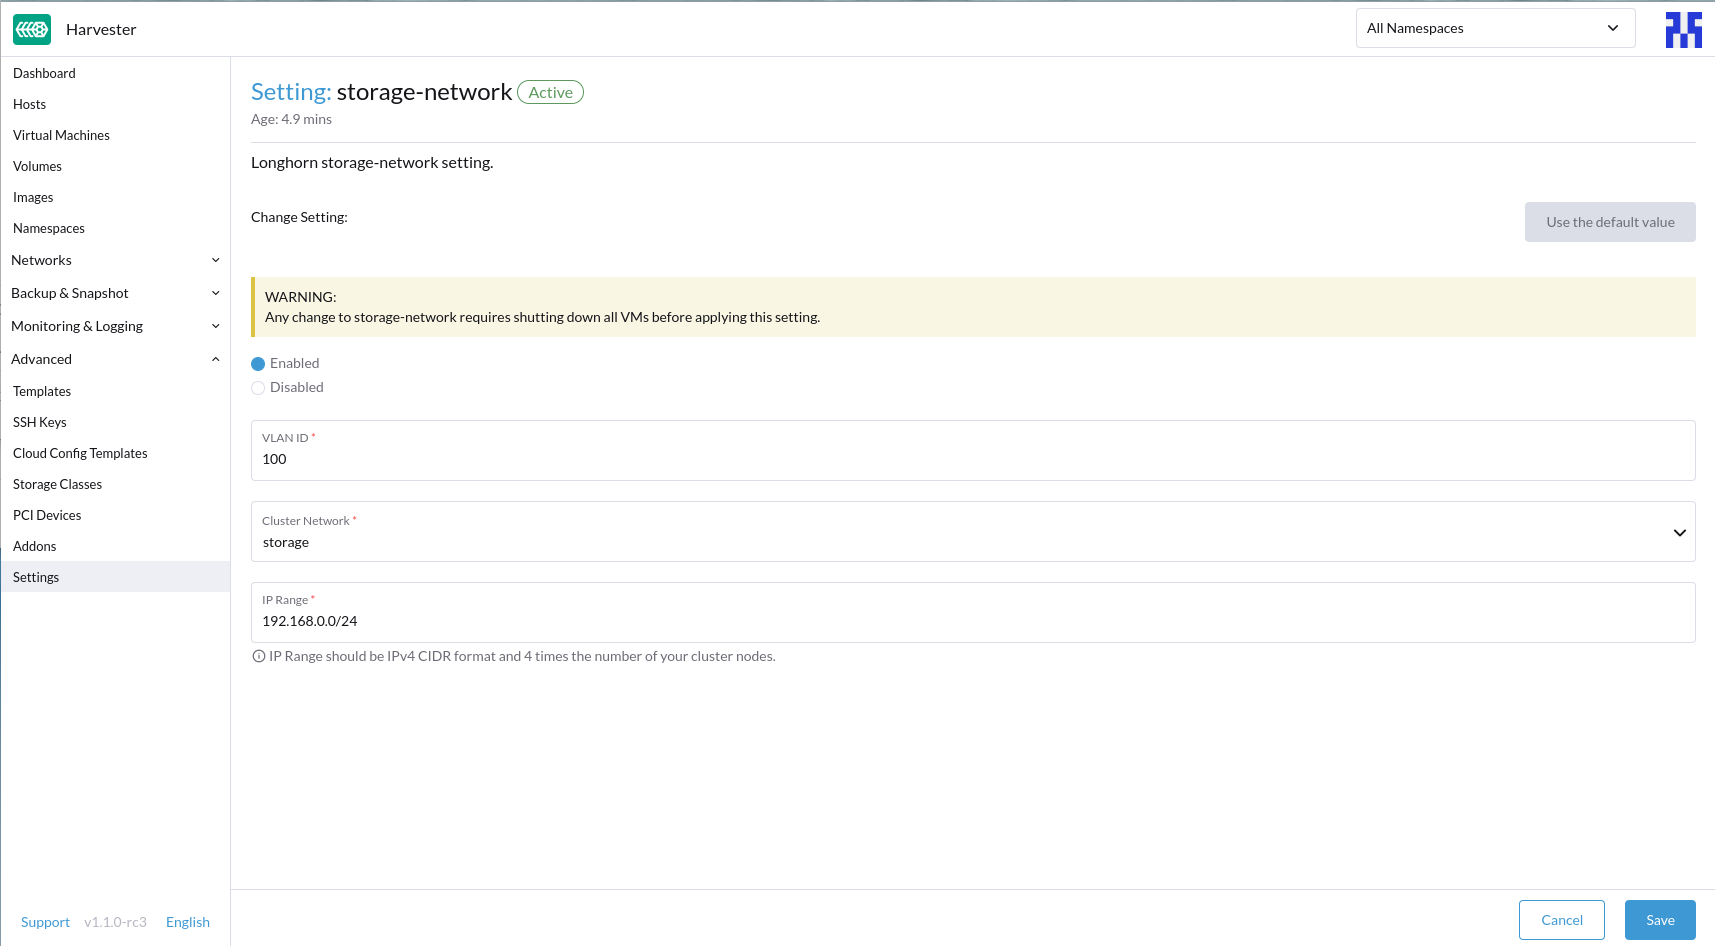
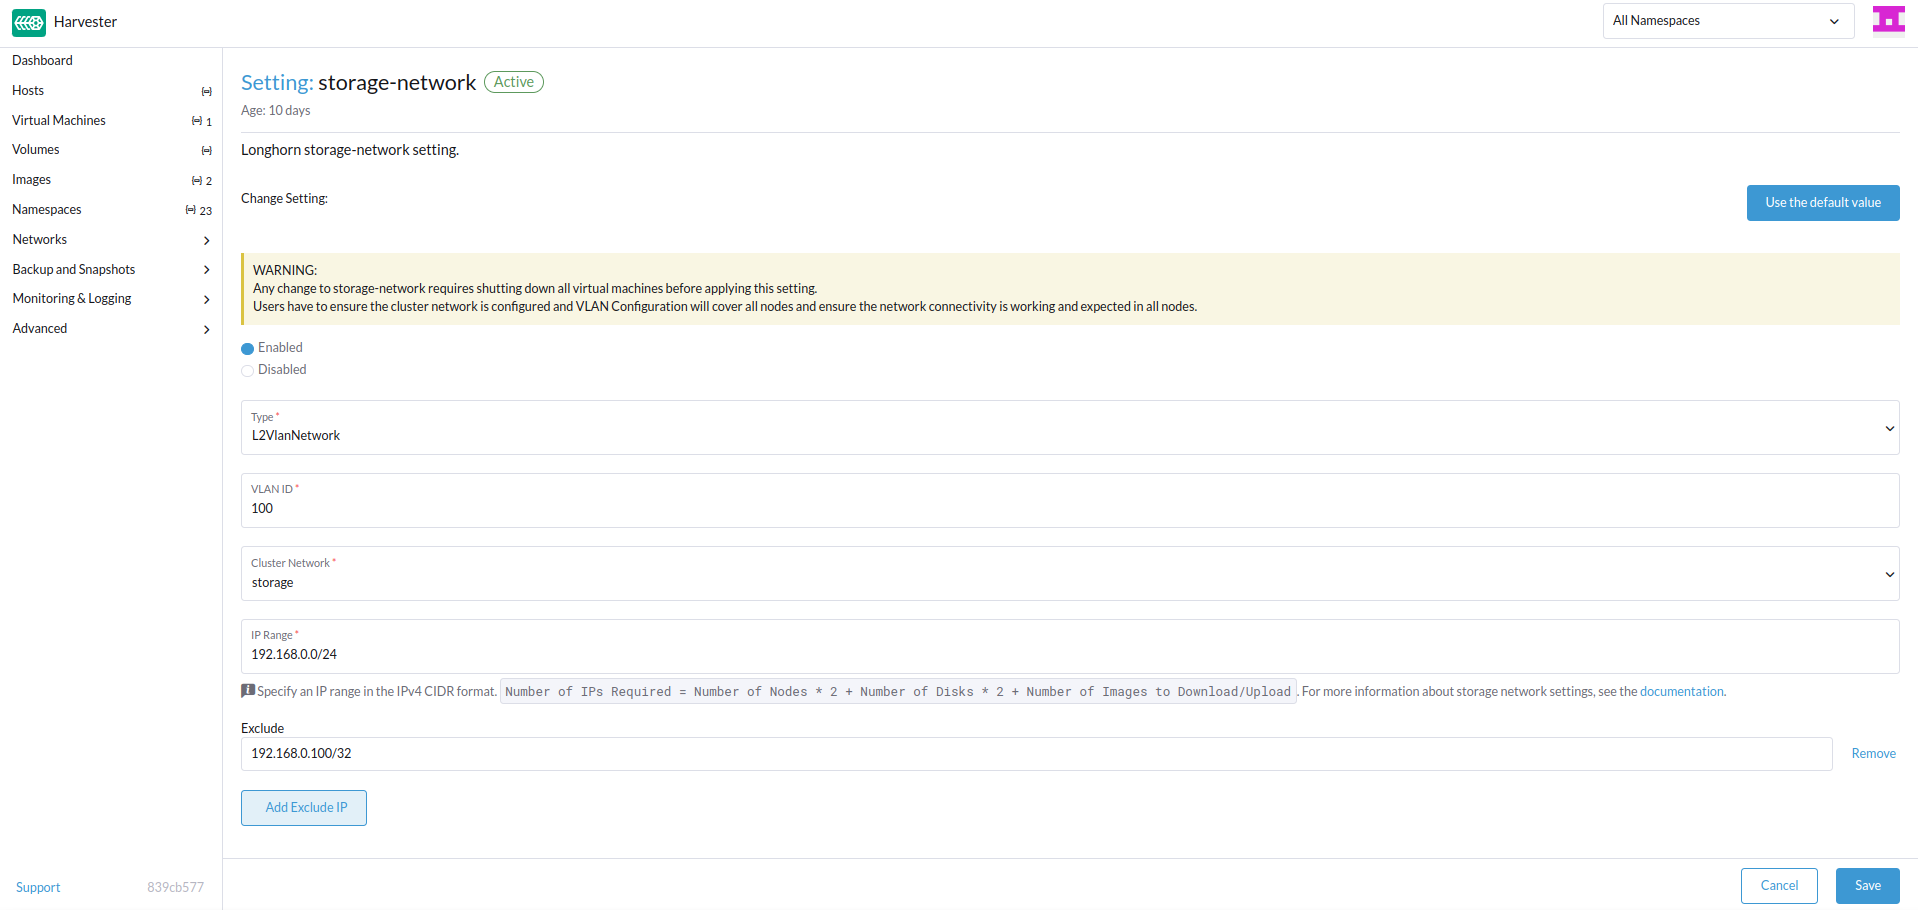
add how to exclue IPs from storage network

diff --git a/versioned_docs/version-v1.3/advanced/storagenetwork.md b/versioned_docs/version-v1.3/advanced/storagenetwork.md
@@ -58,6 +58,7 @@ kubectl apply -f https://raw.githubusercontent.com/harvester/harvester/v1.1.0/de
     - `backing-image-manager` pods: 1 IP per disk, similar to the instance manager pods. Two versions of these will coexist during an upgrade, and the old ones will be removed after the upgrade is completed.
     - The required number of IPs is calculated using a simple formula: `Required Number of IPs = (Number of Nodes * 2) + (Number of Disks * 2) + Number of Images to Download/Upload`
 	- Example: If a cluster has five nodes with two disks each, and ten images will be uploaded simultaneously, the IP range should be greater than or equal to `/26` (`(5 * 2) + (5 * 2) + 10 = 30`).
+  - Exclude IP addresses that Longhorn pods and the storage network must not use, such as addresses reserved for [Harvester CSI RWX support](../../../docs/rancher/csi-driver.md#rwx-volumes-support), the gateway, and other components.
 
 
 We will take the following configuration as an example to explain the details of the Storage Network
@@ -65,6 +66,7 @@ We will take the following configuration as an example to explain the details of
 - VLAN ID for Storage Network: `100`
 - Cluster Network: `storage`
 - IP range: `192.168.0.0/24`
+- Exclude Address: `192.168.0.1/32`
 
 ## Configuration Process
 
@@ -119,7 +121,10 @@ The value format is JSON string or empty string as shown in below.
 {
     "vlan": 100,
     "clusterNetwork": "storage",
-    "range": "192.168.0.0/24"
+    "range": "192.168.0.0/24",
+    "exclude":[
+      "192.168.0.100/32"
+    ]
 }
 ```
 
@@ -130,7 +135,7 @@ apiVersion: harvesterhci.io/v1beta1
 kind: Setting
 metadata:
   name: storage-network
-value: '{"vlan":100,"clusterNetwork":"storage","range":"192.168.0.0/24"}'
+value: '{"vlan":100,"clusterNetwork":"storage","range":"192.168.0.0/24", "exclude":["192.168.0.100/32"]}'
 ```
 
 :::caution

diff --git a/versioned_docs/version-v1.4/advanced/storagenetwork.md b/versioned_docs/version-v1.4/advanced/storagenetwork.md
@@ -59,6 +59,7 @@ kubectl apply -f https://raw.githubusercontent.com/harvester/harvester/v1.1.0/de
     - `backing-image-manager` pods: 1 IP per disk, similar to the instance manager pods. Two versions of these will coexist during an upgrade, and the old ones will be removed after the upgrade is completed.
     - The required number of IPs is calculated using a simple formula: `Required Number of IPs = (Number of Nodes * 2) + (Number of Disks * 2) + Number of Images to Download/Upload`
 	- Example: If a cluster has five nodes with two disks each, and ten images will be uploaded simultaneously, the IP range should be greater than or equal to `/26` (`(5 * 2) + (5 * 2) + 10 = 30`).
+  - Exclude IP addresses that Longhorn pods and the storage network must not use, such as addresses reserved for [Harvester CSI RWX support](../../../docs/rancher/csi-driver.md#rwx-volumes-support), the gateway, and other components.
 
 
 We will take the following configuration as an example to explain the details of the Storage Network
@@ -66,6 +67,7 @@ We will take the following configuration as an example to explain the details of
 - VLAN ID for Storage Network: `100`
 - Cluster Network: `storage`
 - IP range: `192.168.0.0/24`
+- Exclude Address: `192.168.0.1/32`
 
 ## Configuration Process
 
@@ -120,7 +122,10 @@ The value format is JSON string or empty string as shown in below.
 {
     "vlan": 100,
     "clusterNetwork": "storage",
-    "range": "192.168.0.0/24"
+    "range": "192.168.0.0/24",
+    "exclude":[
+      "192.168.0.100/32"
+    ]
 }
 ```
 
@@ -131,7 +136,7 @@ apiVersion: harvesterhci.io/v1beta1
 kind: Setting
 metadata:
   name: storage-network
-value: '{"vlan":100,"clusterNetwork":"storage","range":"192.168.0.0/24"}'
+value: '{"vlan":100,"clusterNetwork":"storage","range":"192.168.0.0/24", "exclude":["192.168.0.100/32"]}'
 ```
 
 :::caution

diff --git a/docs/advanced/storagenetwork.md b/docs/advanced/storagenetwork.md
@@ -59,6 +59,7 @@ kubectl apply -f https://raw.githubusercontent.com/harvester/harvester/v1.1.0/de
     - `backing-image-manager` pods: 1 IP per disk, similar to the instance manager pods. Two versions of these will coexist during an upgrade, and the old ones will be removed after the upgrade is completed.
     - The required number of IPs is calculated using a simple formula: `Required Number of IPs = (Number of Nodes * 2) + (Number of Disks * 2) + Number of Images to Download/Upload`
 	- Example: If a cluster has five nodes with two disks each, and ten images will be uploaded simultaneously, the IP range should be greater than or equal to `/26` (`(5 * 2) + (5 * 2) + 10 = 30`).
+  - Exclude IP addresses that Longhorn pods and the storage network must not use, such as addresses reserved for [Harvester CSI RWX support](../rancher/csi-driver.md#rwx-volumes-support), the gateway, and other components.
 
 
 We will take the following configuration as an example to explain the details of the Storage Network
@@ -66,6 +67,7 @@ We will take the following configuration as an example to explain the details of
 - VLAN ID for Storage Network: `100`
 - Cluster Network: `storage`
 - IP range: `192.168.0.0/24`
+- Exclude Address: `192.168.0.1/32`
 
 ## Configuration Process
 
@@ -120,7 +122,10 @@ The value format is JSON string or empty string as shown in below.
 {
     "vlan": 100,
     "clusterNetwork": "storage",
-    "range": "192.168.0.0/24"
+    "range": "192.168.0.0/24",
+    "exclude":[
+      "192.168.0.100/32"
+    ]
 }
 ```
 
@@ -131,7 +136,7 @@ apiVersion: harvesterhci.io/v1beta1
 kind: Setting
 metadata:
   name: storage-network
-value: '{"vlan":100,"clusterNetwork":"storage","range":"192.168.0.0/24"}'
+value: '{"vlan":100,"clusterNetwork":"storage","range":"192.168.0.0/24", "exclude":["192.168.0.100/32"]}'
 ```
 
 :::caution
